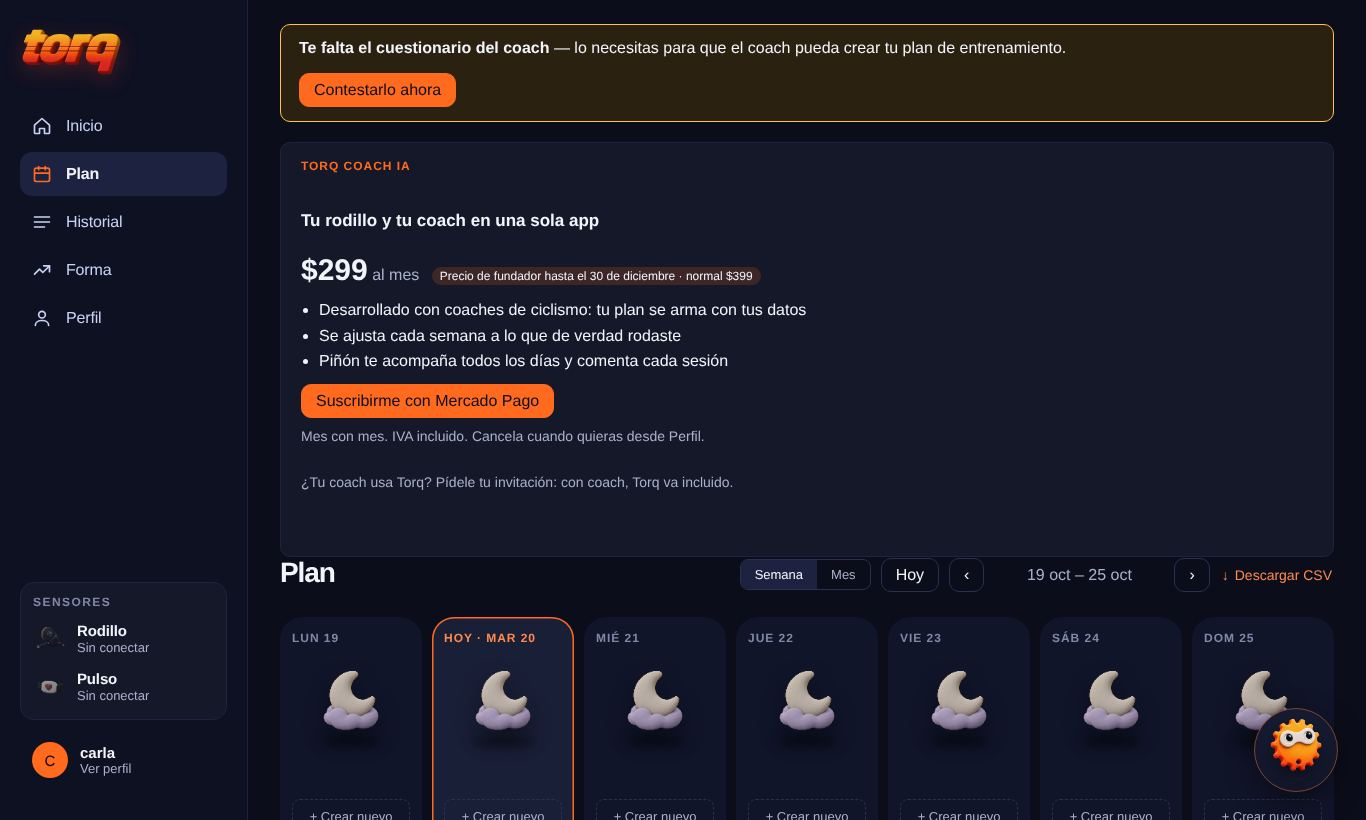
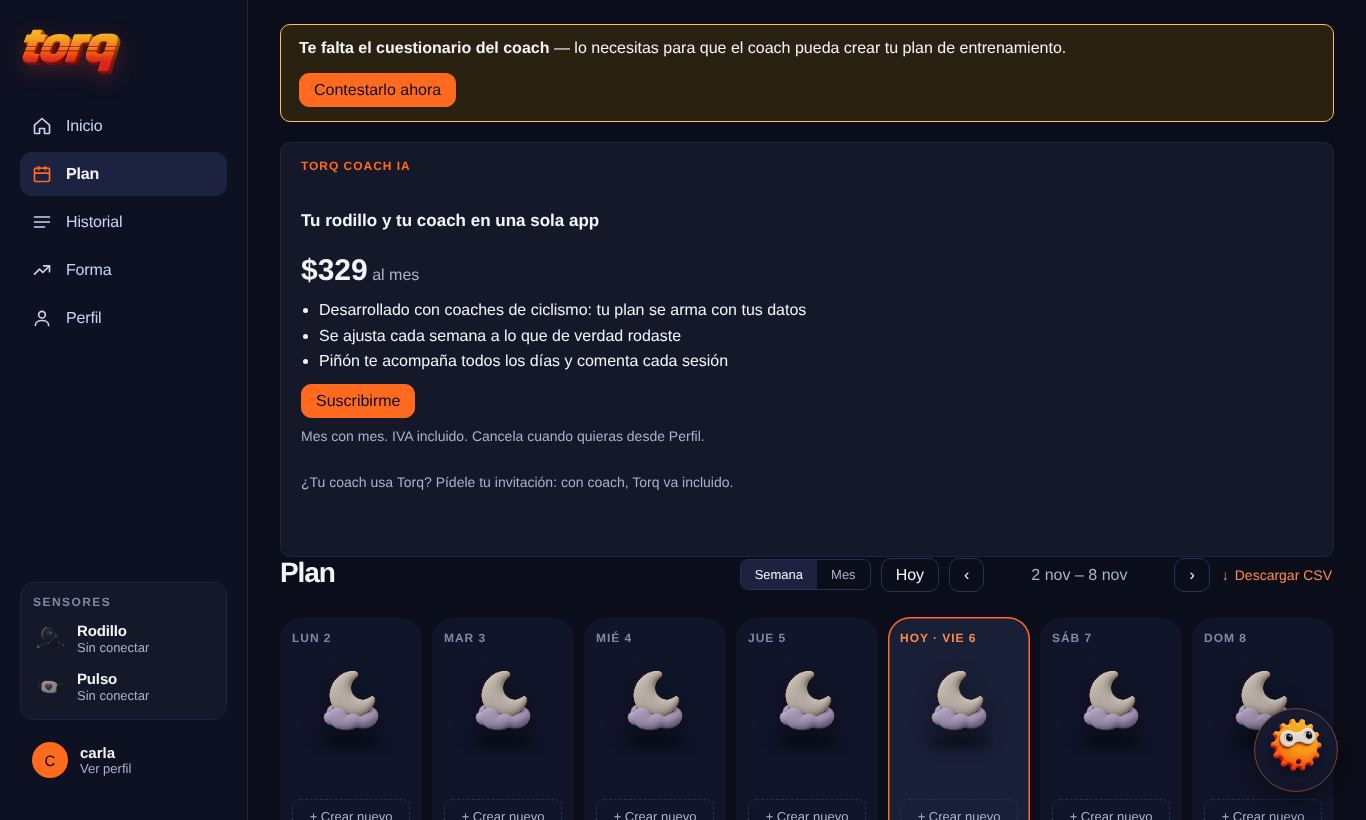
Cobro fase 6: pruebas e2e con Stripe simulado
- 06-cobro-y-registro: precio único con prueba de 7 días, «Suscribirme»
  sin proveedor, volver a suscribirse conservando el precio, «Actualizar
  tarjeta» abre el portal (acción portal) y Ventas del mes para admin.
- El backend simulado contesta $329.
- Capturas 70 y 72 con la UI nueva.

Claude-Session: https://claude.ai/code/session_01PEamorFJQWTATM98QwwjDk

diff --git a/e2e/nube/06-cobro-y-registro.spec.ts b/e2e/nube/06-cobro-y-registro.spec.ts
@@ -4,13 +4,14 @@ import type { MockSupabase, MockUser } from '../support/mock-supabase';
 import { seedProfile } from '../support/seed';
 
 /**
- * Cobro y registro (modo de prueba, Mercado Pago simulado):
+ * Cobro y registro (modo de prueba, Stripe simulado):
  * términos antes de todo, precio antes del cuestionario, suscribirse y
- * volver de Mercado Pago, cancelar, atletas con coach sin cobro, lista de
- * espera para administradores y registro solo con invitación.
+ * volver del pago, cancelar, volver a suscribirse, actualizar la tarjeta en
+ * la gracia, atletas con coach sin cobro, lista de espera y ventas del mes
+ * para administradores y registro solo con invitación.
  */
 
-const NONE = { ai: false, reason: 'none', subscription: null, priceMxn: 329, billingReady: true, isAdmin: false };
+const NONE = { ai: false, reason: 'none', subscription: null, priceMxn: 329, trialDays: 7, billingReady: true, isAdmin: false };
 const future = (days: number) => new Date(Date.now() + days * 86_400_000).toISOString();
 
 async function enter(page: Page, backend: MockSupabase, id = 'ana', withProfile = true): Promise<MockUser> {
@@ -77,12 +78,12 @@ test.describe('Términos antes de empezar', () => {
 });
 
 test.describe('Precio y suscripción', () => {
-  test('sin acceso: suscribirse, volver de Mercado Pago y quedar activo', async ({ page, backend, ux }) => {
+  test('sin acceso: suscribirse, volver del pago y quedar activo', async ({ page, backend, ux }) => {
     await enter(page, backend);
     backend.billingStatus = { ...NONE };
     backend.functions.set('billing', (body) => {
       if (body?.action === 'subscribe') {
-        // Mercado Pago autoriza y nos avisa (webhook): el acceso cambia
+        // Stripe Checkout cobra (o empieza la prueba) y nos avisa (webhook): el acceso cambia
         backend.billingStatus = { ai: true, reason: 'subscription', subscription: { status: 'authorized', price_mxn: 329, paid_until: future(30), grace_until: null }, priceMxn: 329, billingReady: true, isAdmin: false };
         return { body: { initPoint: '/?billing=return#/profile', priceMxn: 329 } };
       }
@@ -94,8 +95,13 @@ test.describe('Precio y suscripción', () => {
     });
     await page.goto('/#/plan');
     const card = page.locator('#coach-slot [data-pricing]');
-    await expect(card).toContainText('Precio de fundador');
-    await ux.click(card.locator('[data-subscribe]'), 'Suscribirme con Mercado Pago');
+    // un solo precio, la prueba de 7 días y cuándo es el primer cobro
+    await expect(card.locator('.pricing-amount')).toHaveText('$329 al mes 7 días de prueba');
+    await expect(card).toContainText('el primer cobro es al terminar los 7 días de prueba');
+    await expect(card).not.toContainText('fundador');
+    await expect(card).not.toContainText('Mercado Pago');
+    await expect(card.locator('[data-subscribe]')).toHaveText('Suscribirme');
+    await ux.click(card.locator('[data-subscribe]'), 'Suscribirme');
     await expect(page).toHaveURL(/#\/profile/);
     await expect(page.locator('.billing-toast')).toContainText('ya tienes Torq Coach IA');
     await expect(page.locator('.perfil-panel[data-pricing]')).toContainText('$329 al mes');
@@ -108,7 +114,25 @@ test.describe('Precio y suscripción', () => {
     expect(backend.fnCalls('billing').map((c) => (c.body as { action?: string })?.action)).toEqual(expect.arrayContaining(['subscribe', 'cancel']));
   });
 
-  test('Mercado Pago sin configurar: el botón se apaga y lo dice', async ({ page, backend, ux }) => {
+  test('canceló y regresa antes de que termine lo pagado: conserva su precio', async ({ page, backend, ux }) => {
+    await enter(page, backend);
+    backend.billingStatus = { ai: true, reason: 'subscription', subscription: { status: 'cancelled', price_mxn: 329, paid_until: future(12), grace_until: null }, priceMxn: 329, trialDays: 0, billingReady: true, isAdmin: false };
+    backend.functions.set('billing', (body) => {
+      if (body?.action === 'subscribe') {
+        // se reactiva la misma suscripción en Stripe (sin Checkout ni cobro nuevo)
+        backend.billingStatus = { ...(backend.billingStatus as object), subscription: { status: 'authorized', price_mxn: 329, paid_until: future(12), grace_until: null } };
+        return { body: { initPoint: '/?billing=return#/profile', priceMxn: 329 } };
+      }
+      return { body: backend.billingStatus };
+    });
+    await page.goto('/#/profile');
+    const panel = page.locator('.perfil-panel[data-pricing]');
+    await ux.click(panel.locator('[data-subscribe]'), 'Volver a suscribirme · $329 al mes');
+    await expect(page.locator('.billing-toast')).toContainText('ya tienes Torq Coach IA');
+    await expect(panel.locator('#subscription-cancel')).toBeVisible();
+  });
+
+  test('cobro sin configurar: el botón se apaga y lo dice', async ({ page, backend, ux }) => {
     await enter(page, backend);
     backend.billingStatus = { ...NONE, billingReady: false };
     await page.goto('/#/plan');
@@ -121,8 +145,14 @@ test.describe('Precio y suscripción', () => {
     await enter(page, backend);
     backend.billingStatus = { ai: true, reason: 'grace', subscription: { status: 'authorized', price_mxn: 329, paid_until: future(-2), grace_until: future(5) }, priceMxn: 329, billingReady: true, isAdmin: false };
     await page.goto('/#/profile');
-    await expect(page.locator('.perfil-panel[data-pricing]')).toContainText('No pudimos cobrar tu mes');
-    void ux;
+    const panel = page.locator('.perfil-panel[data-pricing]');
+    await expect(panel).toContainText('No pudimos cobrar tu mes');
+    await expect(panel).not.toContainText('Mercado Pago');
+    // «Actualizar tarjeta» abre el portal de Stripe
+    backend.functions.set('billing', (body) => (body?.action === 'portal' ? { body: { url: '/?portal=stripe#/profile' } } : { body: backend.billingStatus }));
+    await ux.click(panel.locator('#billing-portal'), 'Actualizar tarjeta');
+    await expect(page).toHaveURL(/portal=stripe/);
+    expect(backend.fnCalls('billing').map((c) => (c.body as { action?: string })?.action)).toContain('portal');
   });
 
   test('Piñón sin acceso: la pregunta abierta explica y ofrece el plan', async ({ page, backend, ux }) => {
@@ -175,6 +205,35 @@ test.describe('Registro solo con invitación', () => {
     await expect(page.locator('#admin-status')).toHaveText('Invitación enviada.');
     await expect(page.locator('[data-invite]')).toHaveCount(0);
     expect(backend.fnCalls('invite').some((c) => (c.body as { action?: string; id?: string }).action === 'waitlist_invite' && (c.body as { id?: string }).id === 'w1')).toBe(true);
+  });
+
+  test('administrador: ventas del mes para la factura global', async ({ page, backend, ux }) => {
+    await enter(page, backend, 'diego');
+    backend.billingStatus = { ai: true, reason: 'comp', subscription: null, priceMxn: 329, billingReady: true, isAdmin: true };
+    const rows = [
+      { stripe_invoice_id: 'in_1', stripe_charge_id: 'ch_1', paid_at: '2026-10-03T18:00:00Z', total_cents: 32900, base_cents: 28362, iva_cents: 4538, card_funding: 'credit', cfdi_uuid: null },
+      { stripe_invoice_id: 'in_2', stripe_charge_id: 'ch_2', paid_at: '2026-10-20T18:00:00Z', total_cents: 32900, base_cents: 28362, iva_cents: 4538, card_funding: 'debit', cfdi_uuid: null },
+    ];
+    backend.functions.set('billing', (body) => {
+      if (body?.action === 'sales') return { body: { month: body.month, rows } };
+      if (body?.action === 'sales_set_cfdi') {
+        rows.forEach((r) => (r.cfdi_uuid = body.uuid as never));
+        return { body: { ok: true, updated: rows.length } };
+      }
+      return { body: backend.billingStatus };
+    });
+    await page.goto('/#/home');
+    await ux.click(page.locator('.sidebar-link', { hasText: 'Ventas del mes' }), 'Ventas del mes');
+    const screen = page.locator('.admin-screen');
+    await expect(screen.locator('tfoot')).toContainText('2 cobros');
+    await expect(screen.locator('tfoot')).toContainText('567.24'); // base
+    await expect(screen.locator('tfoot')).toContainText('90.76'); // IVA
+    const download = page.waitForEvent('download');
+    await ux.click(screen.locator('#sales-csv'), 'Descargar CSV');
+    expect((await download).suggestedFilename()).toMatch(/^torq-ventas-\d{4}-\d{2}\.csv$/);
+    await screen.locator('#sales-uuid').fill('6F2B1A3C-1234-4ABC-9DEF-0123456789AB');
+    await ux.click(screen.locator('#sales-uuid-save'), 'Guardar UUID');
+    await expect(page.locator('.admin-screen')).toContainText('Todos los cobros de este mes ya tienen CFDI');
   });
 
   test('quien no es administrador no ve la lista', async ({ page, backend }) => {

diff --git a/e2e/support/mock-supabase.ts b/e2e/support/mock-supabase.ts
@@ -83,7 +83,7 @@ export class MockSupabase {
   /** Correo de quien llega del correo de invitación (verifyOtp). */
   invitedEmail: string | null = null;
   /** Lo que contesta `billing` → status. Por defecto, cuenta con acceso. */
-  billingStatus: Record<string, unknown> = { ai: true, reason: 'comp', subscription: null, priceMxn: 299, billingReady: true, isAdmin: false };
+  billingStatus: Record<string, unknown> = { ai: true, reason: 'comp', subscription: null, priceMxn: 329, billingReady: true, isAdmin: false };
 
   constructor(users: MockUser[] = []) {
     this.users.push(...users);
